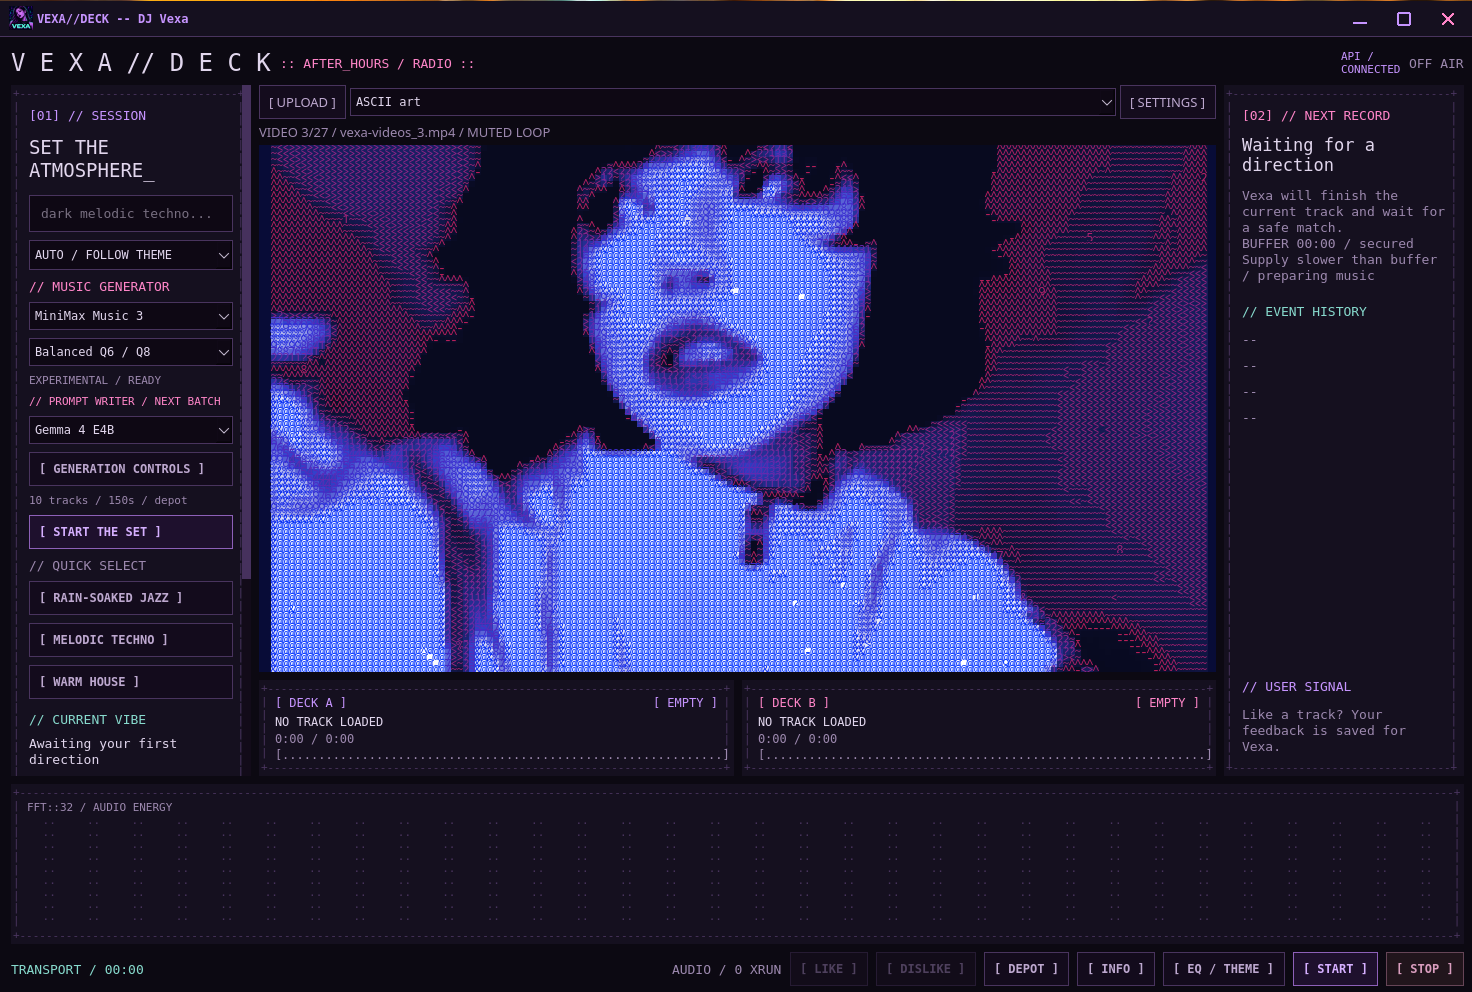
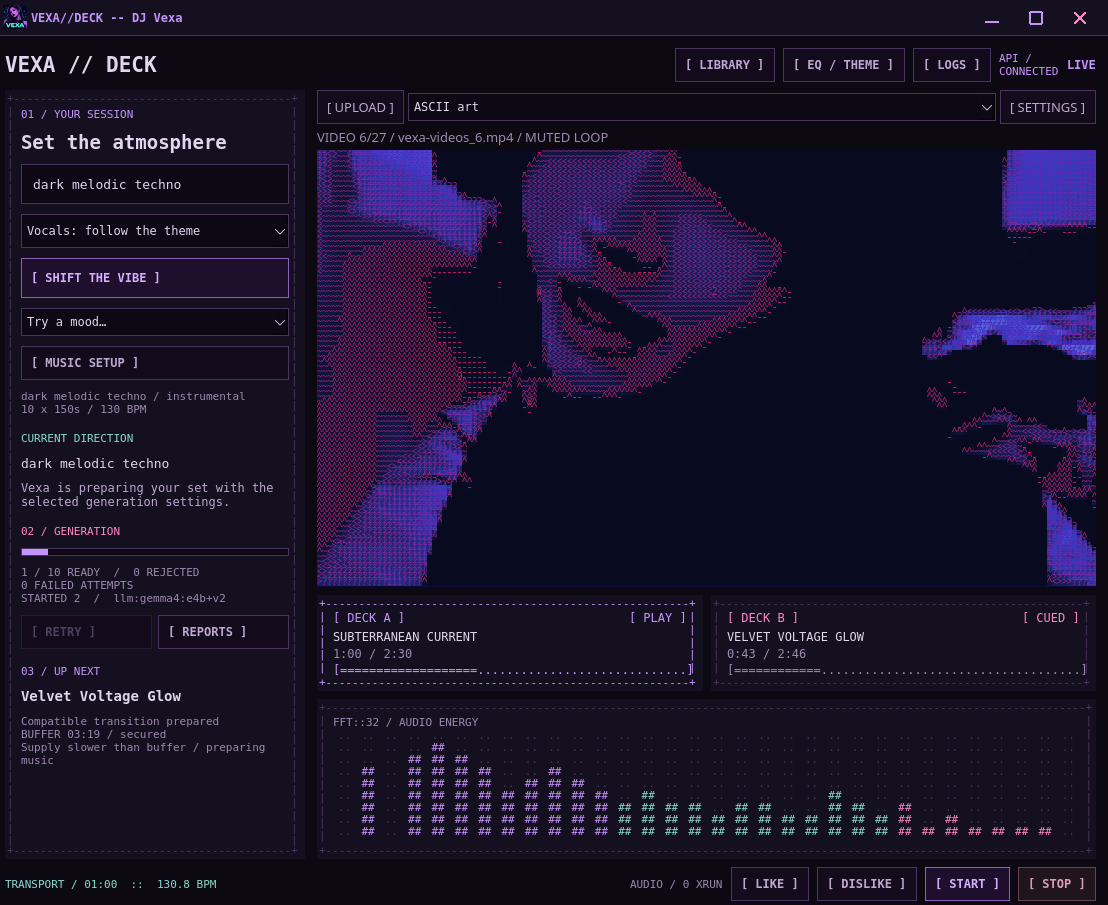
image update

diff --git a/README.md b/README.md
@@ -40,8 +40,9 @@ that becomes more energetic"* — and it builds a continuous set from prepared m
 
 ![VEXA running on Linux with the neon violet theme and a local video rendered as colorful ASCII art](assets/docs/ascii-video-violet.png)
 
-*User screenshot of the earlier three-column layout: looping ASCII video, neon violet console,
-generator and writer selectors, and A/B decks. Playback is off air in this capture.*
+*User screenshot of the current two-column layout: looping ASCII video, neon violet console,
+active Deck A, cued Deck B, live audio spectrum and generation progress. Detailed options
+are available through Music setup.*
 
 ### Current layout
 
